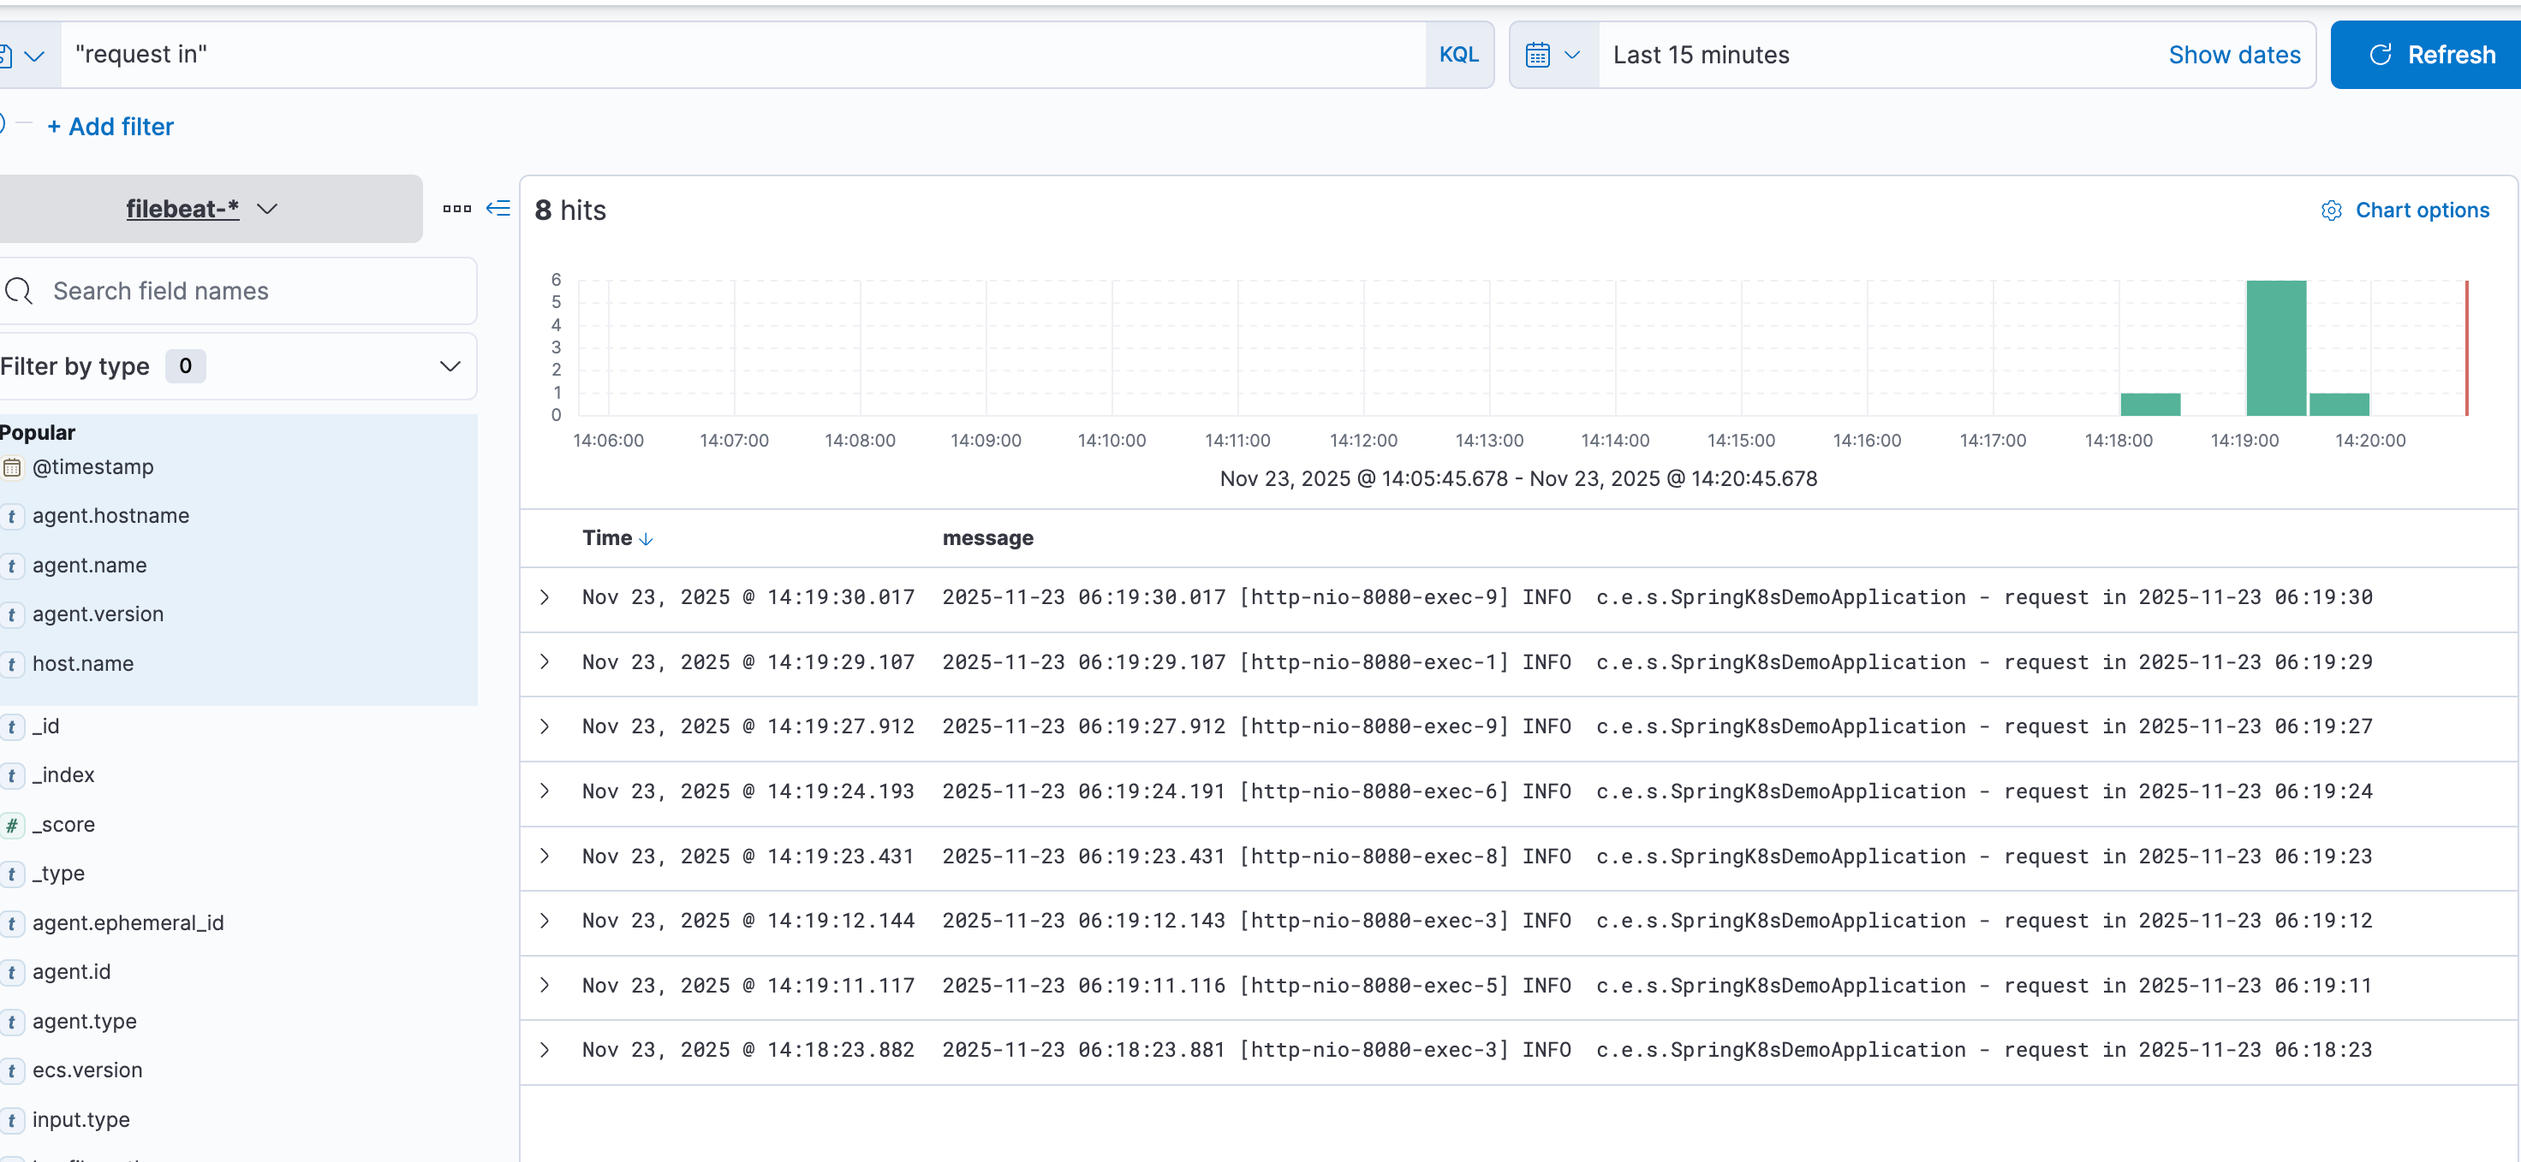
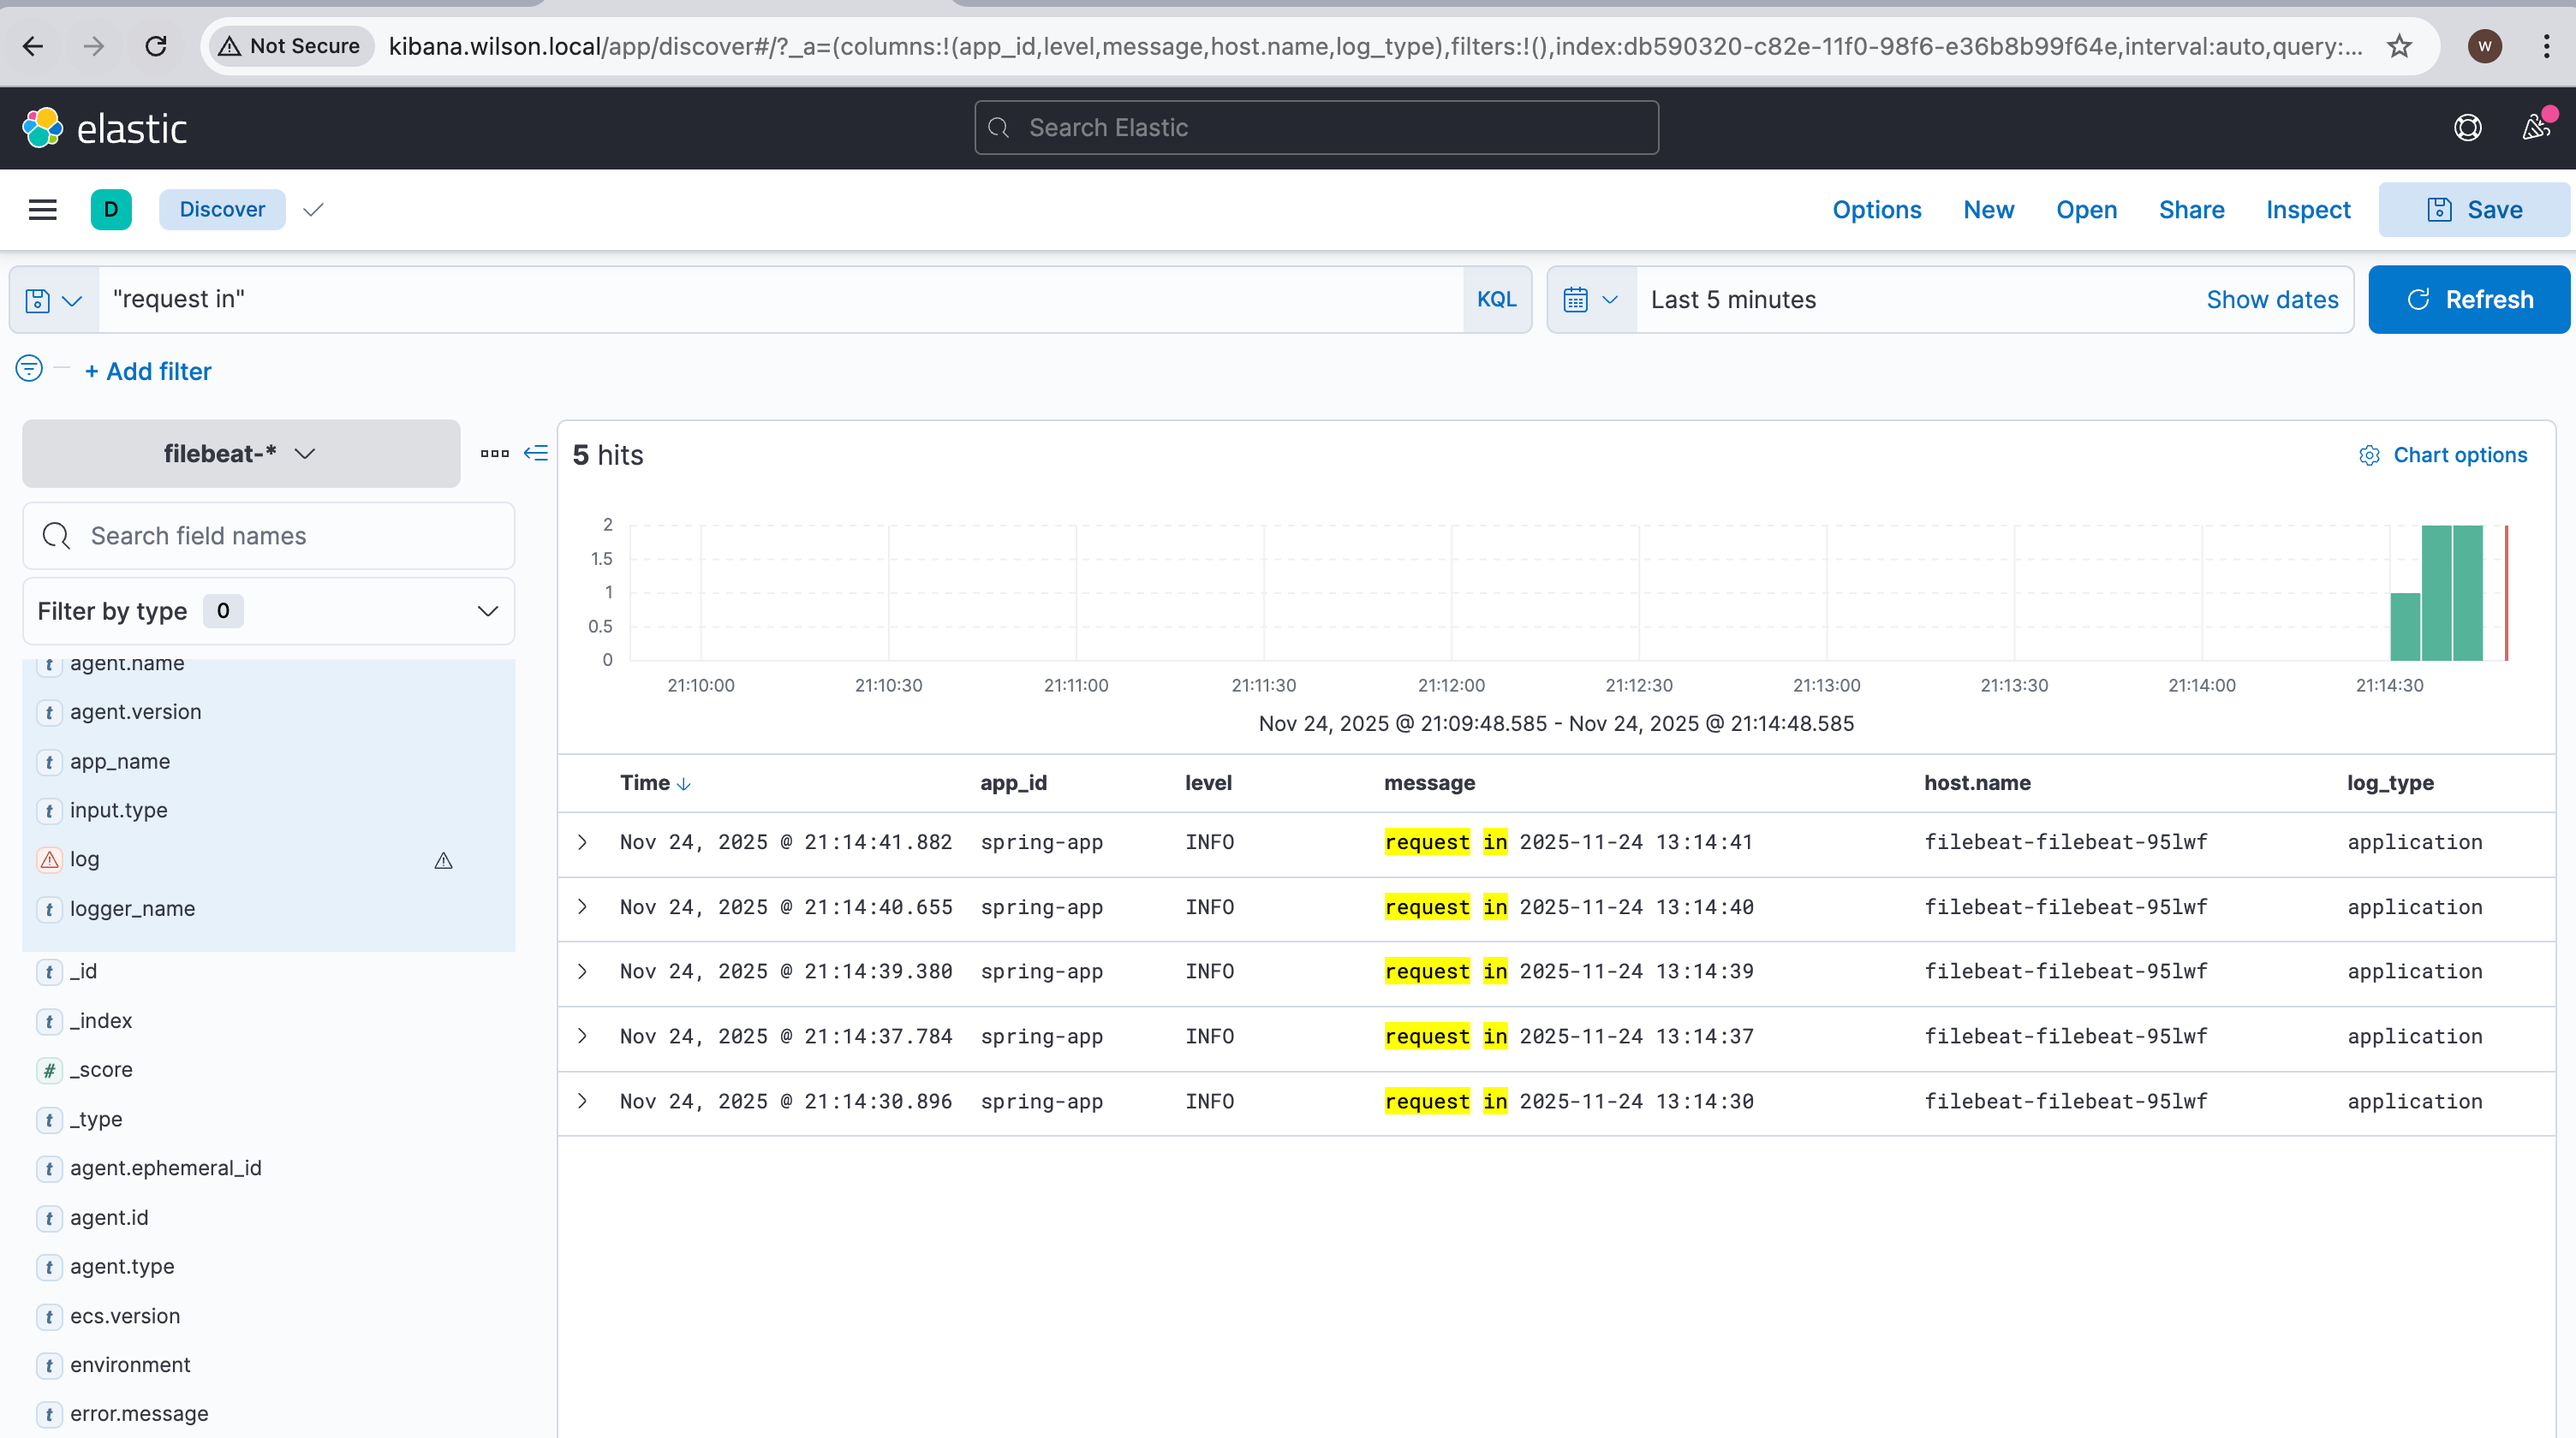
logging

diff --git a/docs/cicd/kubernetes_logging.md b/docs/cicd/kubernetes_logging.md
@@ -280,7 +280,6 @@ kubectl apply -f kibana-ingress.yaml
 创建 `filebeat-values.yaml`
 
 ```yaml
-# filebeat-values-clean.yaml
 clusterRoleRules:
   - apiGroups: [coordination.k8s.io]
     resources: [leases]
@@ -289,10 +288,8 @@ clusterRoleRules:
     resources: ["nodes", "nodes/stats", "events", "endpoints", "pods", "services"]
     verbs: ["get", "list", "watch"]
 
-# 如果不需要采集容器日志，可以注释掉以下部分
 daemonset:
   enabled: true
-  # 确保卷定义不重复
   volumes:
     - name: varlog
       hostPath:
@@ -321,7 +318,6 @@ daemonset:
       mountPath: /var/lib/containers
       readOnly: true
 
-  # 环境变量配置 - 确保不重复
   env:
     - name: NODE_NAME
       valueFrom:
@@ -333,18 +329,49 @@ filebeatConfig:
     filebeat.inputs:
     - type: container
       paths:
-        - /var/log/containers/*.log
-      processors:
-        - add_kubernetes_metadata:
-            host: ${NODE_NAME}
-            matchers:
-            - logs_path:
-                logs_path: "/var/log/containers/"
+        - /var/log/containers/spring-app-*.log
+      fields:
+        app_id: 'spring-app'
+        environment: 'prod'
+        log_type: 'application'
+      fields_under_root: true
+      json.keys_under_root: true
+      json.overwrite_keys: true
+      json.add_error_key: true
+      json.message_key: log
+      json.time_key: time
+      json.time_format: iso8601
+
+    processors:
+      - add_kubernetes_metadata:
+          host: ${NODE_NAME}
+          matchers:
+          - logs_path:
+              logs_path: "/var/log/containers/"
+      - decode_json_fields:
+          fields: ["message"]
+          target: ""
+          overwrite_keys: true
+          when:
+            has_fields: ['message']
+      - decode_json_fields:
+          fields: ["log"]
+          target: ""
+          overwrite_keys: true
+          when:
+            has_fields: ['log']
+
+    # 禁用模板设置，使用现有的
+    setup.template.enabled: false
+    setup.ilm.enabled: false
 
     output.elasticsearch:
       hosts: ['elasticsearch-master:9200']
       username: "elastic"
       password: "elastic123!"
+      index: "filebeat-spring-app-%{+yyyy.MM.dd}"
+
+    logging.level: info
 ```
 
 #### 5.2 部署Filebeat
@@ -416,53 +443,23 @@ Java应用 → 日志文件 → Filebeat → Logstash → Elasticsearch → Kiba
 ```xml
 <?xml version="1.0" encoding="UTF-8"?>
 <configuration>
-    <!-- 控制台输出 -->
+    <!-- 控制台输出 JSON 格式 -->
     <appender name="CONSOLE" class="ch.qos.logback.core.ConsoleAppender">
-        <encoder>
-            <pattern>%d{yyyy-MM-dd HH:mm:ss.SSS} [%thread] %-5level %logger{36} - %msg%n</pattern>
-        </encoder>
-    </appender>
-
-    <!-- 文件输出 -->
-    <appender name="FILE" class="ch.qos.logback.core.rolling.RollingFileAppender">
-        <file>logs/app.log</file>
-        <rollingPolicy class="ch.qos.logback.core.rolling.TimeBasedRollingPolicy">
-            <fileNamePattern>logs/app.%d{yyyy-MM-dd}.%i.log</fileNamePattern>
-            <maxHistory>30</maxHistory>
-            <timeBasedFileNamingAndTriggeringPolicy class="ch.qos.logback.core.rolling.SizeAndTimeBasedFNATP">
-                <maxFileSize>100MB</maxFileSize>
-            </timeBasedFileNamingAndTriggeringPolicy>
-        </rollingPolicy>
-        <encoder>
-            <pattern>%d{yyyy-MM-dd HH:mm:ss.SSS} [%thread] %-5level %logger{36} - %msg%n</pattern>
-        </encoder>
-    </appender>
-
-    <!-- Logstash JSON 输出 -->
-    <appender name="LOGSTASH" class="ch.qos.logback.core.rolling.RollingFileAppender">
-        <file>logs/logstash.json</file>
-        <rollingPolicy class="ch.qos.logback.core.rolling.TimeBasedRollingPolicy">
-            <fileNamePattern>logs/logstash.%d{yyyy-MM-dd}.%i.json</fileNamePattern>
-            <maxHistory>7</maxHistory>
-            <timeBasedFileNamingAndTriggeringPolicy class="ch.qos.logback.core.rolling.SizeAndTimeBasedFNATP">
-                <maxFileSize>100MB</maxFileSize>
-            </timeBasedFileNamingAndTriggeringPolicy>
-        </rollingPolicy>
         <encoder class="net.logstash.logback.encoder.LoggingEventCompositeJsonEncoder">
             <providers>
-                <timestamp/>
-                <version/>
+                <timestamp>
+                    <timeZone>UTC</timeZone>
+                </timestamp>
                 <logLevel/>
                 <loggerName/>
                 <message/>
                 <mdc/>
                 <stackTrace/>
-                <threadName/>
                 <pattern>
                     <pattern>
                         {
-                            "app": "spring-k8s-demo",
-                            "env": "${ENV:-dev}"
+                        "app_name": "spring-app",
+                        "environment": "prod"
                         }
                     </pattern>
                 </pattern>
@@ -471,9 +468,7 @@ Java应用 → 日志文件 → Filebeat → Logstash → Elasticsearch → Kiba
     </appender>
 
     <root level="INFO">
-        <appender-ref ref="CONSOLE" />
-        <appender-ref ref="FILE" />
-        <appender-ref ref="LOGSTASH" />
+        <appender-ref ref="CONSOLE"/>
     </root>
 </configuration>
 ```
